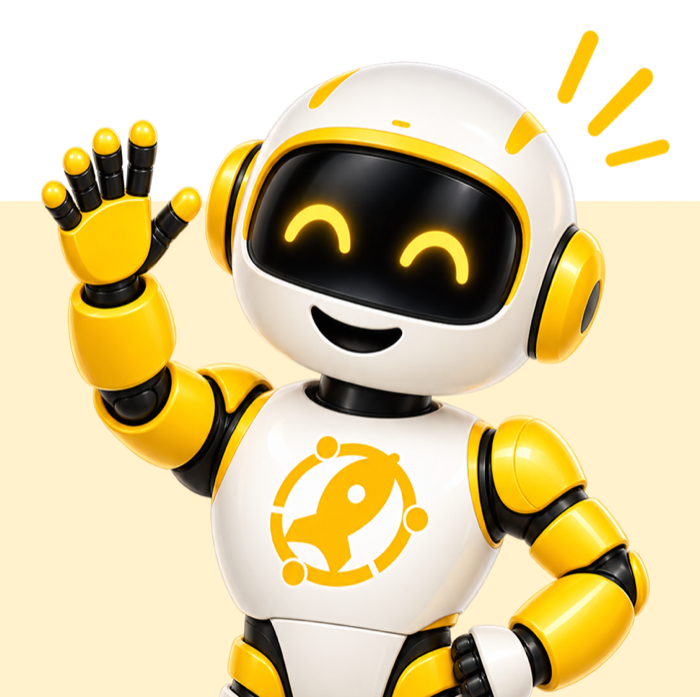
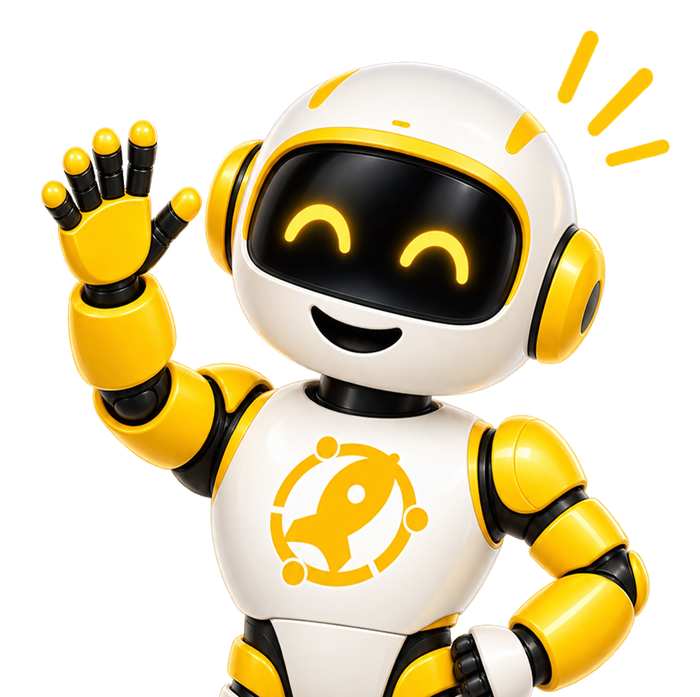
feat(pricing): update Pricing CTA styles and add new pricing robot image

diff --git a/components/pricing/PricingCta.tsx b/components/pricing/PricingCta.tsx
@@ -8,7 +8,7 @@ function IconCard({ className, children }: { className: string; children: React.
   return (
     <div
       aria-hidden="true"
-      className={`absolute hidden items-center justify-center rounded-[12%] bg-white md:flex ${className}`}
+      className={`absolute flex items-center justify-center rounded-[12%] bg-white ${className}`}
     >
       {children}
     </div>
@@ -22,34 +22,34 @@ export default function PricingCta() {
     <section className="pb-20">
       <div className="max-w-5xl mx-auto px-6 lg:px-12">
         <div className="md:pt-[4.75cqw] [container-type:inline-size]">
-          <div className="relative rounded-2xl bg-[#FFC107] px-6 py-8 md:flex md:min-h-[11.8cqw] md:flex-col md:justify-center md:px-[2.4cqw] md:py-0">
-            <h2 className="text-xl font-bold tracking-tight text-[#0F1A14] md:text-[2.4cqw] md:leading-tight">
+          <div className="relative overflow-hidden rounded-2xl bg-gradient-to-b from-[#FFCF4A] to-[#FFE08C] px-5 pb-[210px] pt-6 md:overflow-visible md:bg-none md:bg-[#FFC107] md:pb-0 md:pt-0 md:flex md:min-h-[11.8cqw] md:flex-col md:justify-center md:px-[2.4cqw] md:py-0">
+            <h2 className="text-[22px] font-bold leading-[1.3] tracking-tight text-[#0F1A14] md:text-[2.4cqw] md:leading-tight">
               Start your first month for just {intro}
             </h2>
-            <p className="mt-1 max-w-xl text-sm text-[#0F1A14]/50 md:max-w-[60cqw] md:text-[1.25cqw]">
+            <p className="mt-2 max-w-xl text-sm text-[#0F1A14]/50 md:max-w-[60cqw] md:text-[1.25cqw]">
               Choose any plan. After 1 month, continue at the regular rate only if you see value. Cancel anytime.
             </p>
-            <div className="mt-5 flex flex-wrap items-center gap-4 md:mt-[0.6cqw] md:gap-[1.5cqw]">
+            <div className="mt-5 flex flex-col items-center gap-3 md:flex-row md:flex-wrap md:items-center md:mt-[0.6cqw] md:gap-[1.5cqw]">
               <Link
                 href="/contact-us"
-                className="inline-flex items-center gap-2 rounded-lg bg-[#F5B800] px-5 py-2.5 text-sm font-semibold text-white shadow-[0_1px_2px_rgba(0,0,0,0.06)] transition-colors hover:bg-[#EBAE00] md:gap-[0.8cqw] md:px-[1.5cqw] md:py-[0.9cqw] md:text-[1.3cqw]"
+                className="inline-flex items-center gap-2 rounded-lg bg-[#FFC107] px-8 py-3 text-base md:bg-[#F5B800] font-semibold text-white shadow-[0_1px_2px_rgba(0,0,0,0.06)] transition-colors hover:bg-[#EBAE00] md:gap-[0.8cqw] md:px-[1.5cqw] md:py-[0.9cqw] md:text-[1.3cqw]"
               >
                 Get Started
                 <svg viewBox="0 0 16 16" fill="none" className="h-3.5 w-3.5 md:h-[1.2cqw] md:w-[1.2cqw]" aria-hidden="true">
                   <path d="M3 8h10M9 4l4 4-4 4" stroke="currentColor" strokeWidth="1.6" strokeLinecap="round" strokeLinejoin="round" />
                 </svg>
               </Link>
-              <span className="text-sm text-[#0F1A14]/50 md:text-[1.25cqw]">No long-term contracts.</span>
+              <span className="text-base text-[#0F1A14]/50 md:text-[1.25cqw]">No long-term contracts.</span>
             </div>
 
-            <IconCard className="left-[68.45%] top-[15.7%] aspect-square w-[4.8cqw]">
+            <IconCard className="bottom-3 left-4 h-[62px] w-[62px] md:bottom-auto md:left-[68.45%] md:top-[15.7%] md:h-auto md:w-[4.8cqw] md:aspect-square">
               <svg viewBox="0 0 24 24" fill="none" className="h-[40%] w-[40%] text-[#F5B800]" stroke="currentColor" strokeWidth="1.8" strokeLinejoin="round">
                 <rect x="3" y="14" width="4" height="6" rx="1" />
                 <rect x="10" y="9" width="4" height="11" rx="1" />
                 <rect x="17" y="3" width="4" height="17" rx="1" />
               </svg>
             </IconCard>
-            <IconCard className="left-[90.75%] top-[27.5%] aspect-square w-[5.1cqw]">
+            <IconCard className="bottom-[85px] right-5 h-[64px] w-[64px] md:bottom-auto md:left-[90.75%] md:right-auto md:top-[27.5%] md:h-auto md:w-[5.1cqw] md:aspect-square">
               <svg viewBox="0 0 24 24" fill="none" className="h-[40%] w-[40%] text-[#F5B800]" stroke="currentColor" strokeWidth="1.8" strokeLinecap="round" strokeLinejoin="round">
                 <path d="M3 3v18h18" />
                 <path d="M7 15l4-4 3 3 5-6" />
@@ -62,7 +62,7 @@ export default function PricingCta() {
               width={700}
               height={697}
               aria-hidden="true"
-              className="pointer-events-none absolute bottom-0 left-[74.04%] hidden w-[17.5cqw] select-none md:block"
+              className="pointer-events-none absolute bottom-0 left-1/2 w-[190px] -translate-x-1/2 select-none md:left-[74.04%] md:w-[17.5cqw] md:translate-x-0"
             />
           </div>
         </div>
